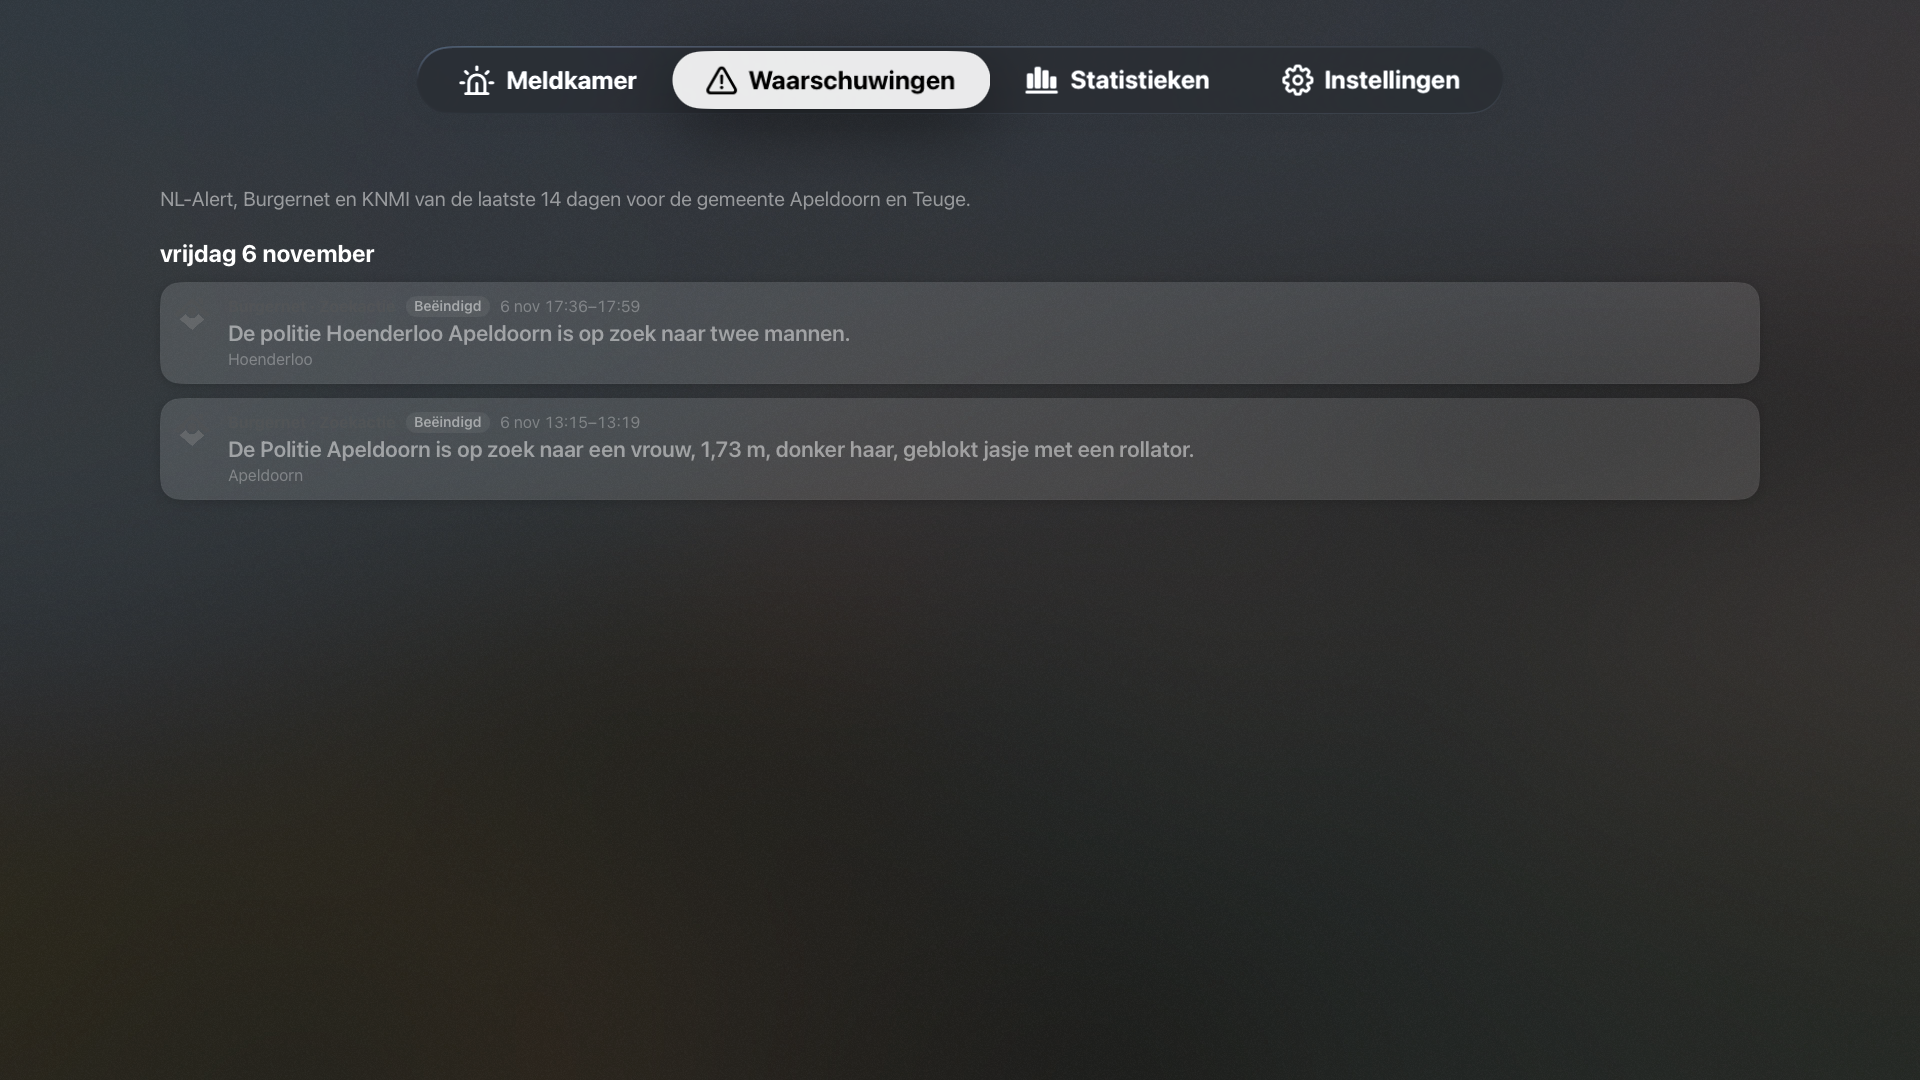
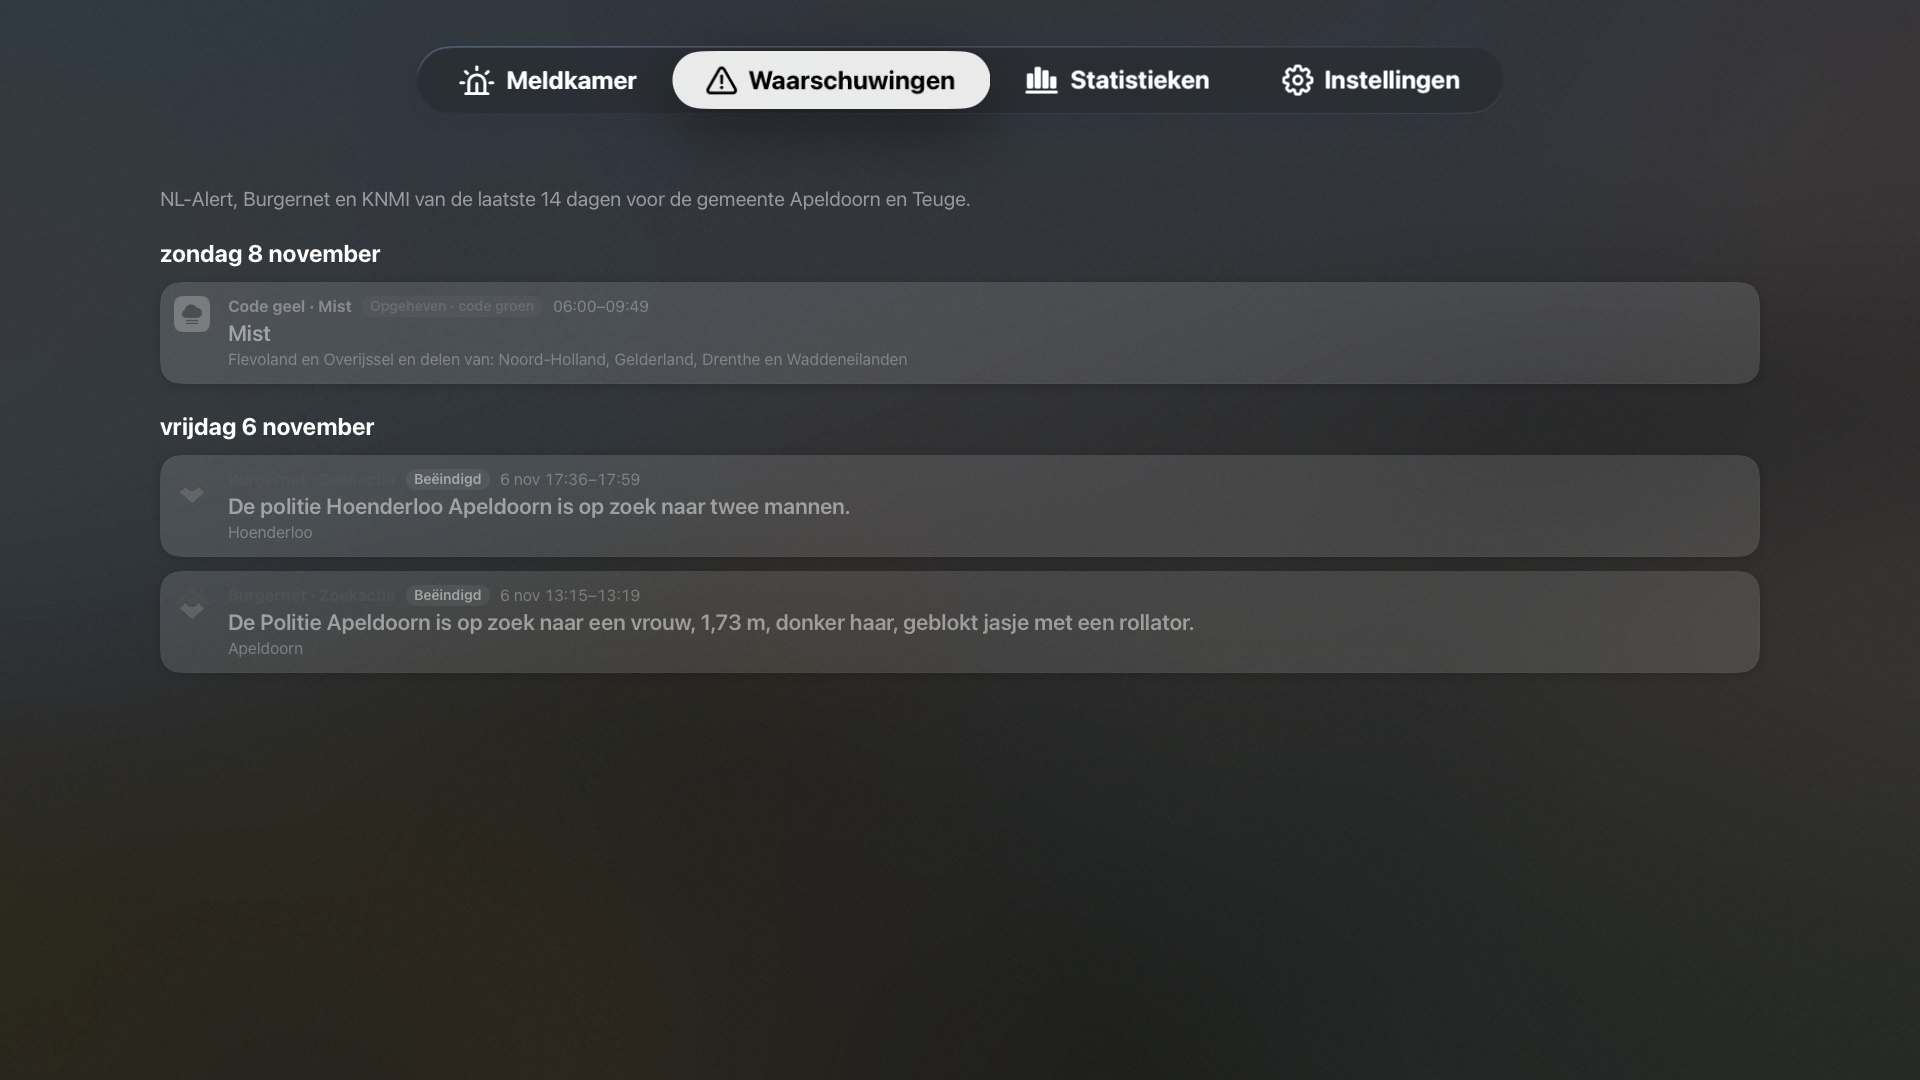
App Store-afbeeldingen (nl) vernieuwd met welkomscherm en KNMI-detail; website-teksten bij de functies bijgewerkt
Claude-Session: https://claude.ai/code/session_01CXMY93tUivvJNkpfMAQTgP

Changed region(s): [[0.0625, 0.3667, 0.9375, 0.6417], [0.0938, 0.275, 0.4688, 0.3361], [0.0938, 0.2139, 0.1875, 0.2444]]

diff --git a/website/index.html b/website/index.html
@@ -126,7 +126,7 @@
         <article class="step" data-step="pager">
           <span class="step-ico" style="--c:var(--red)">01</span>
           <h3>De live Pager</h3>
-          <p>Alle meldingen van de laatste 24 uur in één tijdlijn, per dag gegroepeerd. Met de tellingen van vandaag per hulpdienst en een <b>LIVE</b>-label voor alles van de laatste tien minuten. Meldingen die je al hebt geopend worden grijs.</p>
+          <p>Alle meldingen van de laatste 24 uur in één tijdlijn, per dag gegroepeerd. Met de tellingen van vandaag per hulpdienst en een <b>LIVE</b>-label voor alles van de laatste tien minuten. Meldingen die je al hebt geopend worden grijs, of verberg ze: ben je overal bij, dan zie je ‘Je bent helemaal bij’.</p>
         </article>
         <article class="step" data-step="map">
           <span class="step-ico" style="--c:var(--politie)">02</span>
@@ -141,12 +141,12 @@
         <article class="step" data-step="meteo">
           <span class="step-ico" style="--c:#0ea5e9">04</span>
           <h3>NL-Alert, Burgernet en KNMI</h3>
-          <p>Waarschuwingen staan tussen de meldingen, met dezelfde pagina: kaart met het gebied of de plek, het bericht, het weer op dat moment en de meldingen in de buurt. Afgelopen waarschuwingen worden grijs.</p>
+          <p>NL-Alert en Burgernet staan tussen de meldingen. Een KNMI-weercode zie je zoals op knmi.nl: kop, risico's en advies, het verloop per code en het weer van nu. Is de code opgeheven, dan staat er code groen, en zie je nog welke code er gold.</p>
         </article>
         <article class="step" data-step="notif">
           <span class="step-ico" style="--c:var(--brandweer)">05</span>
           <h3>Mis geen melding</h3>
-          <p>Pushmeldingen met een kaartje van de plek, voor maximaal vijf profielen met eigen plaatsen, hulpdiensten, prioriteiten, waarschuwingen en tijden. Kritieke A1- en P1-meldingen komen er altijd door.</p>
+          <p>Pushmeldingen met een kaartje van de plek, voor maximaal vijf profielen met eigen plaatsen, hulpdiensten, prioriteiten, waarschuwingen en tijden. Volg een capcode met een ster, en zie bij elke melding waarom je wel of geen pushmelding kreeg. Kritieke A1- en P1-meldingen komen er altijd door.</p>
         </article>
         <article class="step" data-step="home">
           <span class="step-ico" style="--c:var(--traumaheli)">06</span>
